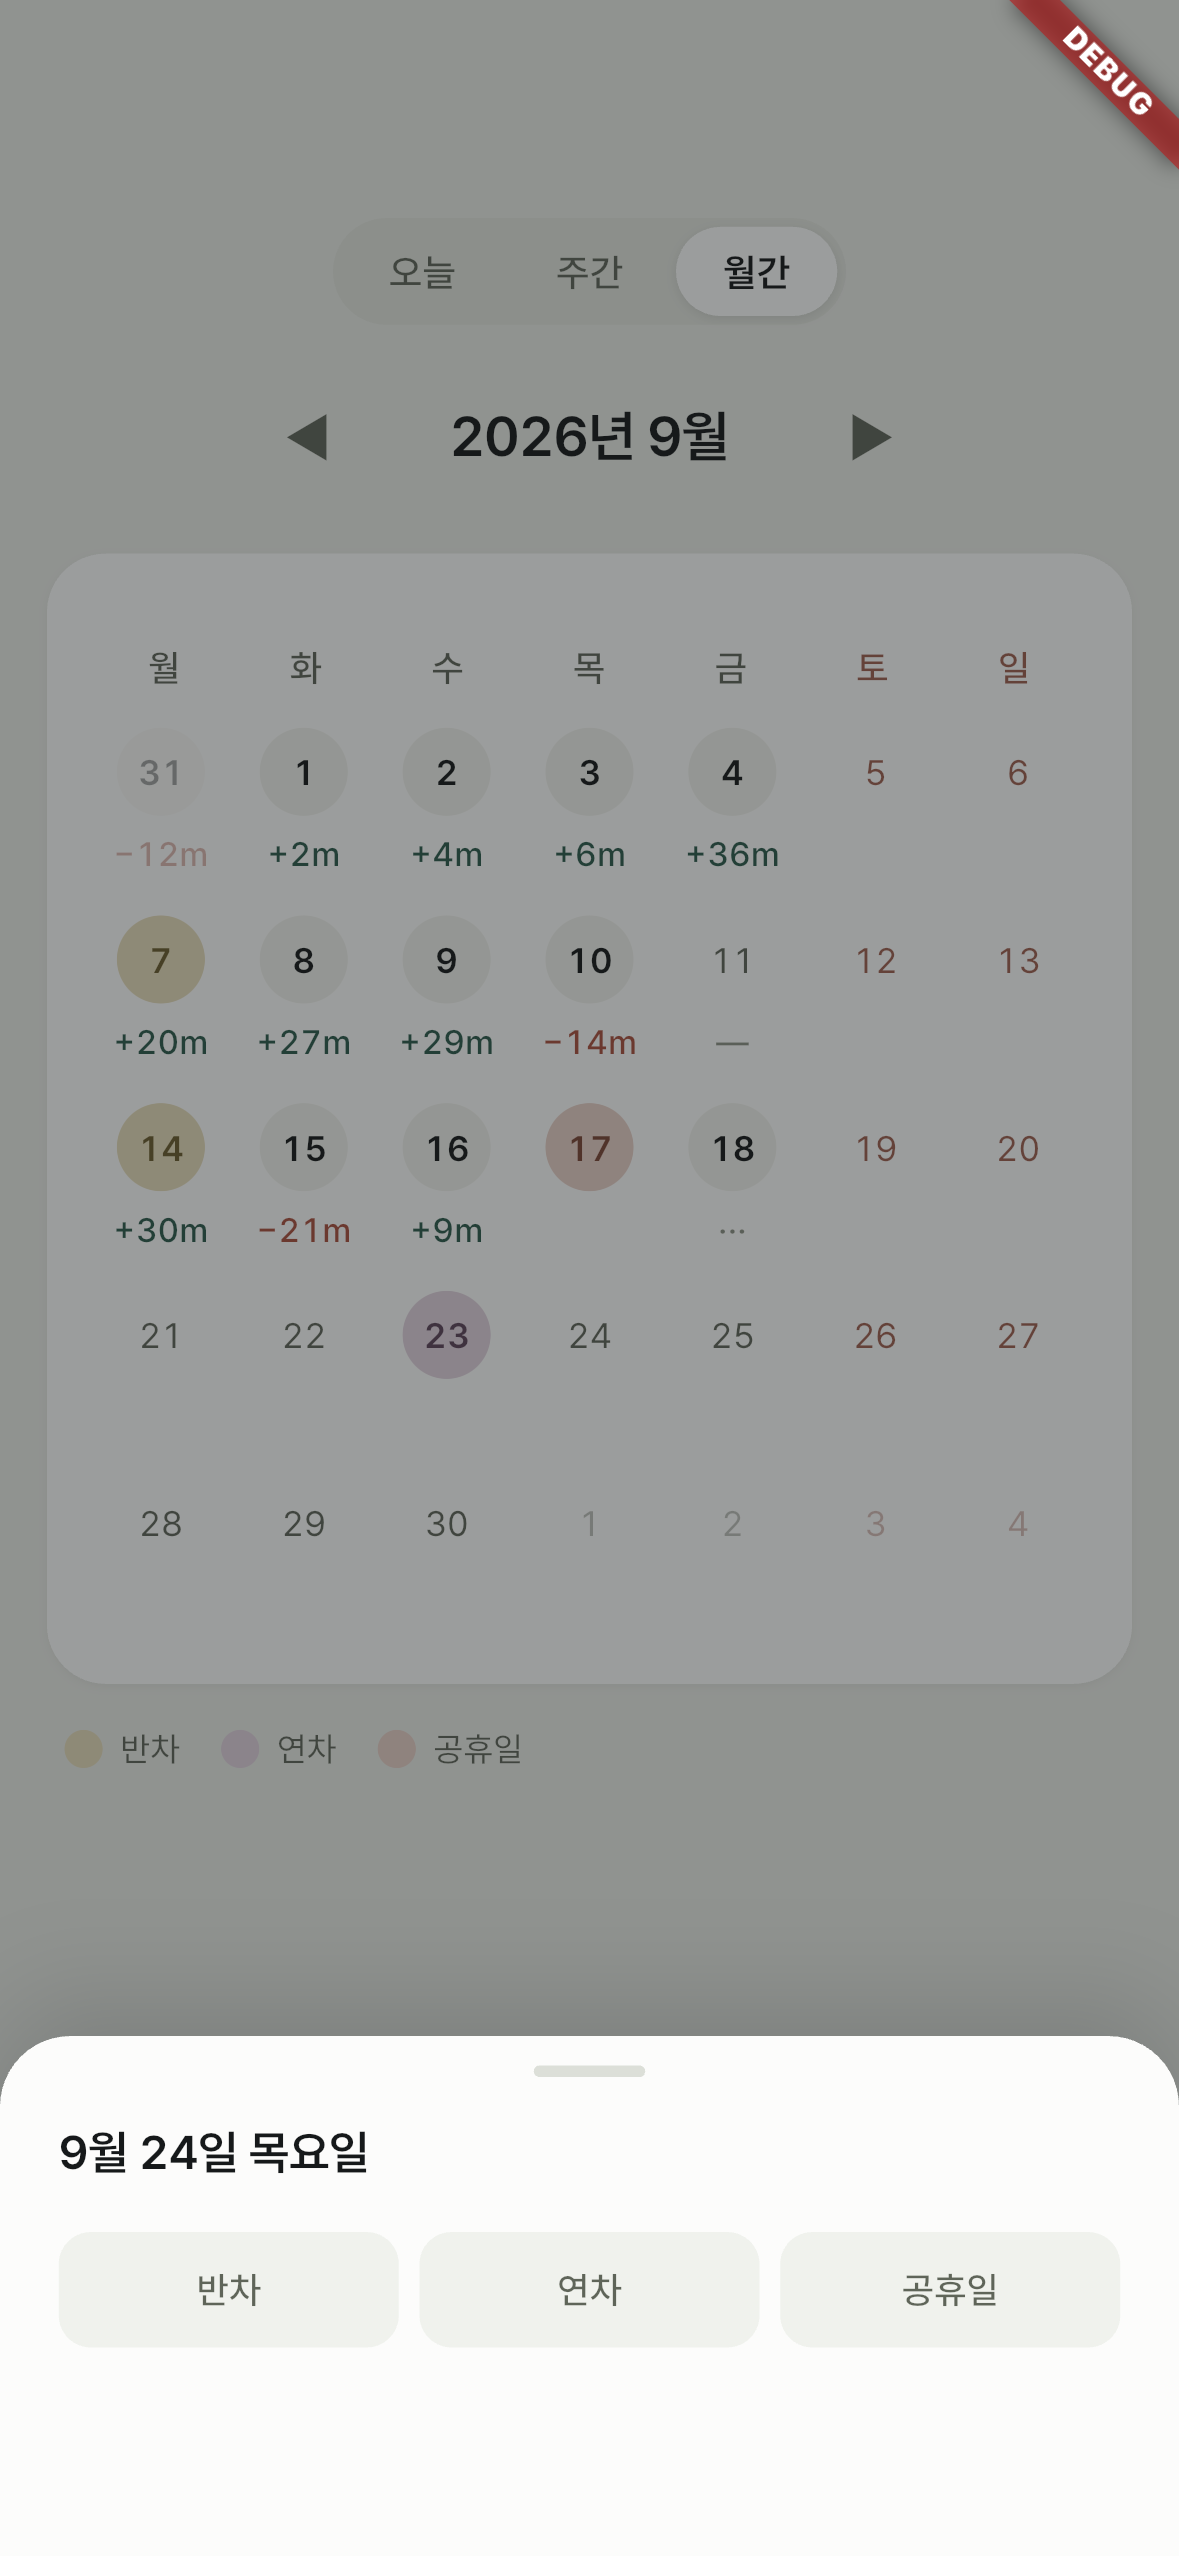
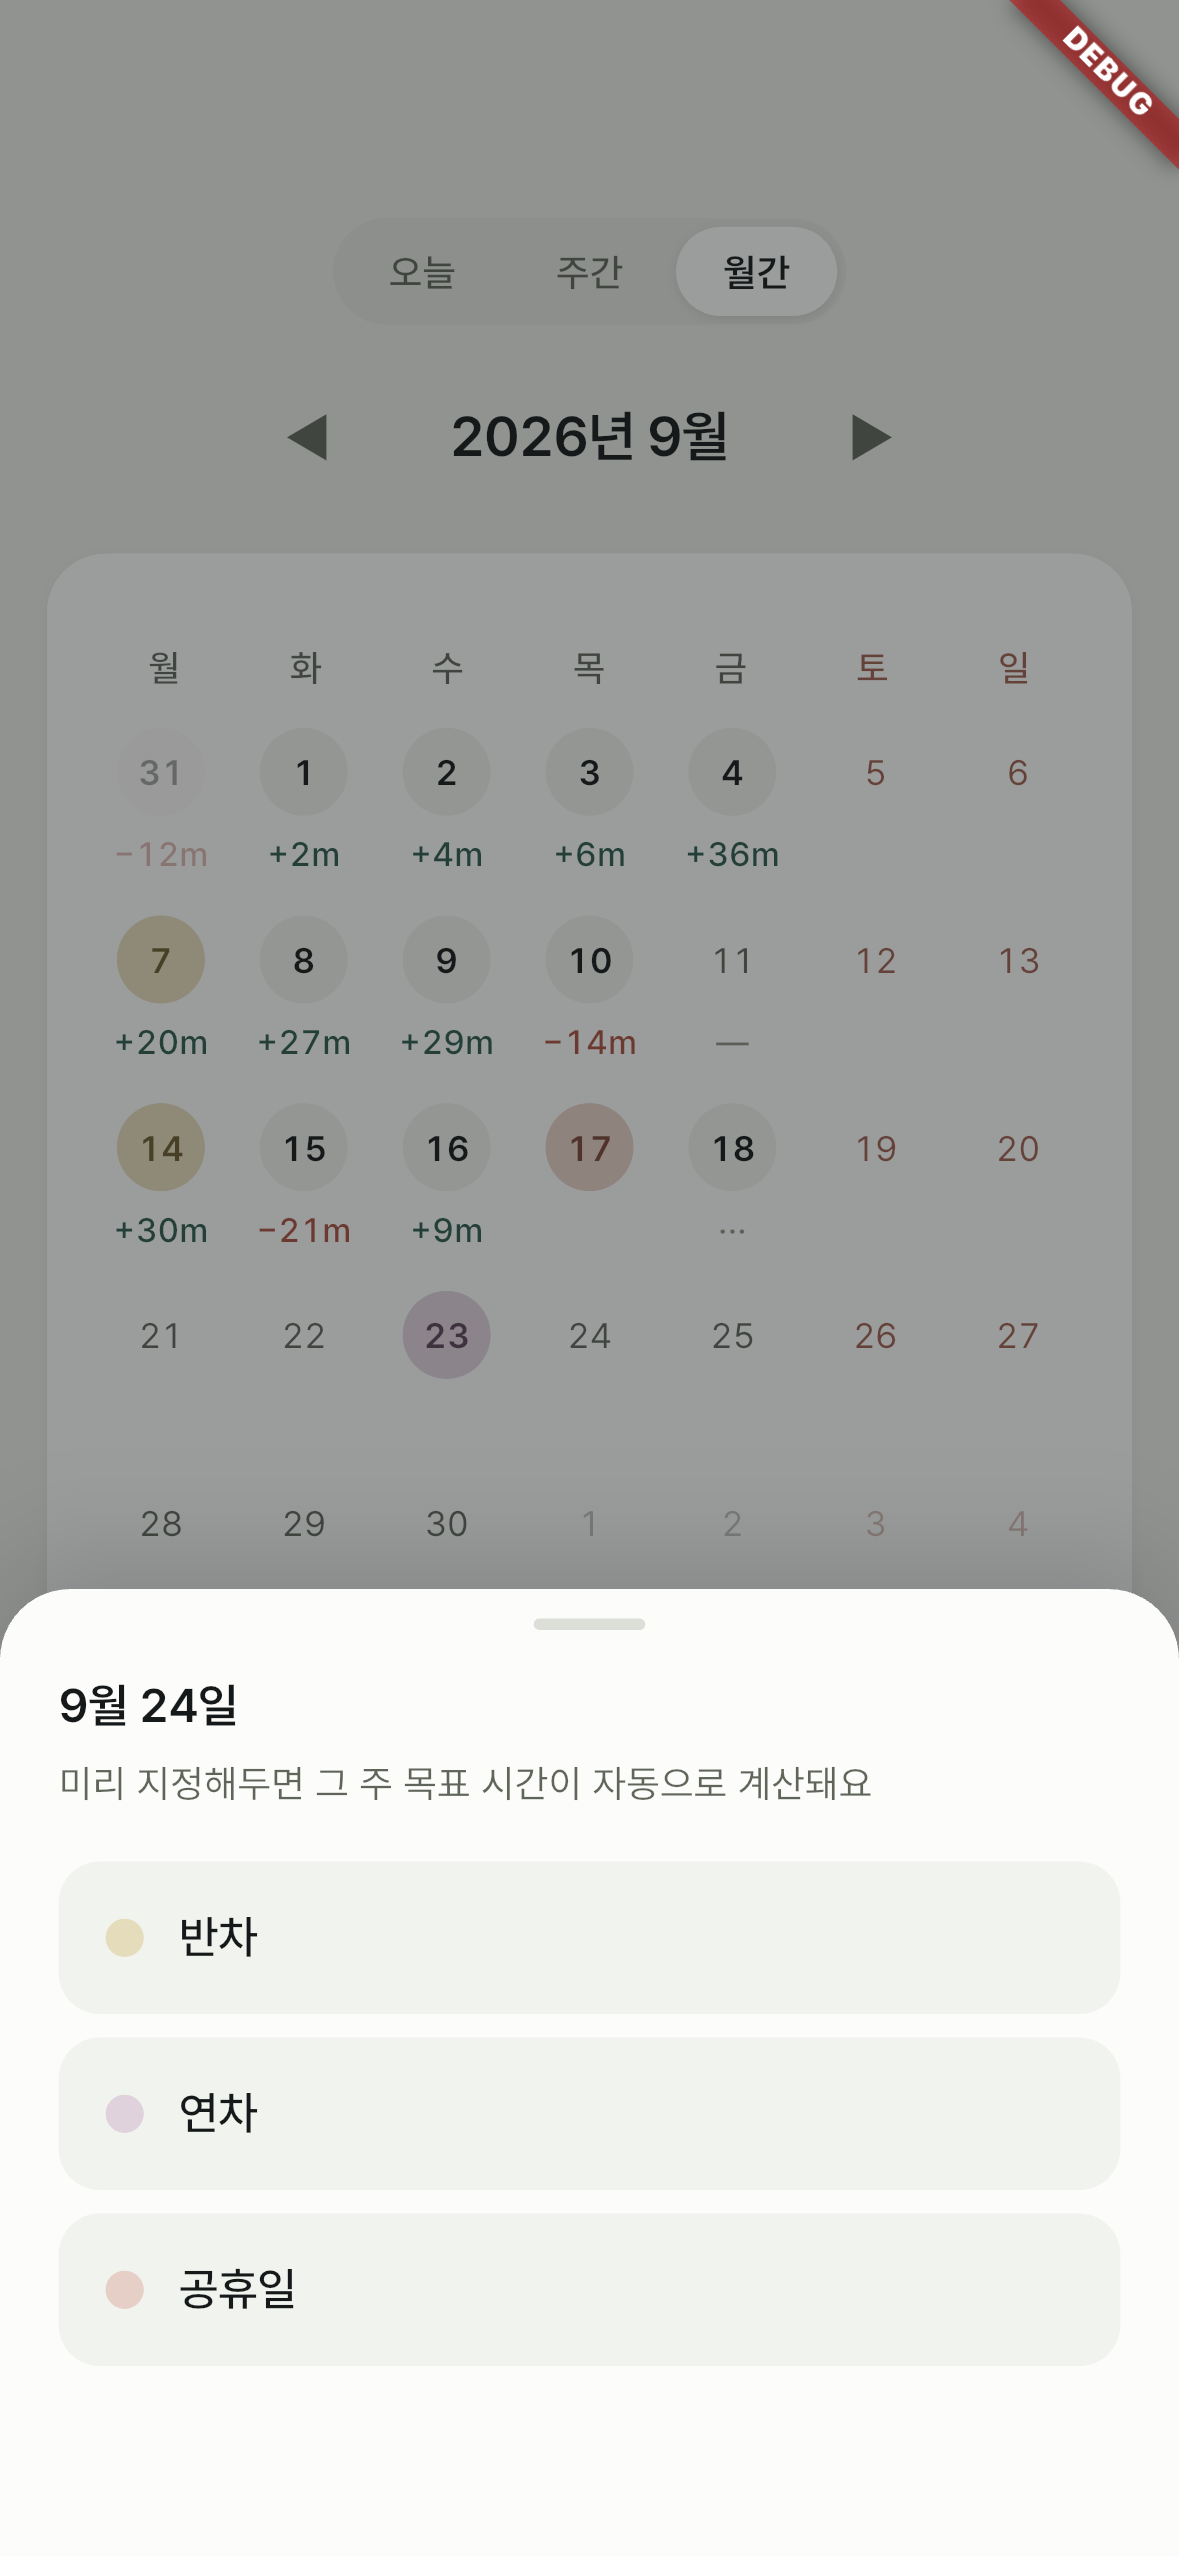
미래 날짜 시트를 유형 행 목록으로: 안내 한 줄 + 색 점·라벨·체크 행 3개
제목은 "9월 24일"만. 선택 행은 연한 초록 배경에 브랜드색 라벨·체크, 미선택은 카드 안쪽 색.
탭 즉시 저장·닫힘은 그대로. 과거 날짜의 칩은 유지.

Changed region(s): [[0.0, 0.6182, 1.0, 0.9272]]

diff --git a/lib/presentation/record_edit/widgets/type_rows.dart b/lib/presentation/record_edit/widgets/type_rows.dart
@@ -1,0 +1,81 @@
+import 'package:flutter/material.dart';
+
+import '../../../domain/model/work_type.dart';
+import '../../../ui/app_colors.dart';
+import '../../../ui/app_sizes.dart';
+import '../../../ui/app_text_styles.dart';
+import '../record_edit_texts.dart';
+
+/// 미래 날짜 시트의 유형 목록 — 색 점 · 라벨 · 체크가 있는 전체 너비 행 3개. 상호배타, 같은 행 재탭이면 null.
+class TypeRows extends StatelessWidget {
+  const TypeRows({super.key, required this.selected, required this.onChanged});
+
+  final WorkType selected;
+  final ValueChanged<WorkType?> onChanged;
+
+  static const _types = [WorkType.halfDay, WorkType.dayOff, WorkType.holiday];
+
+  @override
+  Widget build(BuildContext context) {
+    return Column(
+      children: [
+        for (var i = 0; i < _types.length; i++) ...[
+          if (i > 0) SizedBox(height: AppSizes.typeRowGap),
+          _Row(
+            type: _types[i],
+            selected: selected == _types[i],
+            onTap: () => onChanged(selected == _types[i] ? null : _types[i]),
+          ),
+        ],
+      ],
+    );
+  }
+}
+
+class _Row extends StatelessWidget {
+  const _Row({required this.type, required this.selected, required this.onTap});
+
+  final WorkType type;
+  final bool selected;
+  final VoidCallback onTap;
+
+  @override
+  Widget build(BuildContext context) {
+    return GestureDetector(
+      behavior: HitTestBehavior.opaque,
+      onTap: onTap,
+      child: AnimatedContainer(
+        duration: AppDurations.checkbox,
+        height: AppSizes.typeRow,
+        padding: AppSizes.typeRowPadding,
+        decoration: BoxDecoration(
+          color: selected ? AppColors.typeRowSelected : AppColors.cardInner,
+          borderRadius: BorderRadius.circular(AppSizes.typeRowRadius),
+        ),
+        child: Row(
+          children: [
+            Container(
+              width: AppSizes.typeRowDot,
+              height: AppSizes.typeRowDot,
+              decoration: BoxDecoration(color: AppColors.typeColors(type).$1, shape: BoxShape.circle),
+            ),
+            SizedBox(width: AppSizes.typeRowDotGap),
+            Expanded(
+              child: AnimatedDefaultTextStyle(
+                duration: AppDurations.checkbox,
+                style: AppTextStyles.typeRowLabel(selected: selected),
+                child: Text(RecordEditTexts.chipLabel(type)),
+              ),
+            ),
+            // 자리를 유지한 채 켜고 끈다 — 라벨이 움직이지 않도록.
+            AnimatedOpacity(
+              duration: AppDurations.checkbox,
+              opacity: selected ? 1 : 0,
+              child: Icon(Icons.check_rounded, size: AppSizes.typeRowCheck, color: AppColors.brand),
+            ),
+          ],
+        ),
+      ),
+    );
+  }
+}

diff --git a/test/presentation/record_edit_sheet_test.dart b/test/presentation/record_edit_sheet_test.dart
@@ -10,6 +10,7 @@ import 'package:soi_duty/data/database/app_database.dart';
 import 'package:soi_duty/domain/model/work_type.dart';
 import 'package:soi_duty/presentation/record_edit/record_edit_sheet.dart';
 import 'package:soi_duty/presentation/record_edit/widgets/time_wheel.dart';
+import 'package:soi_duty/presentation/record_edit/widgets/type_rows.dart';
 import 'package:soi_duty/ui/app_theme.dart';
 
 import '../helpers/fonts.dart';
@@ -123,10 +124,31 @@ void main() {
     await unmount(tester);
   });
 
-  testWidgets('미래 날짜는 시각 행이 없다', (tester) async {
+  testWidgets('미래 날짜는 시각 행 없이 유형 행 3개, 탭하면 바로 저장·닫힘, 다시 열면 체크', (tester) async {
     await pumpSheet(tester, d(23));
+    expect(find.text('9월 23일'), findsOneWidget);
+    expect(find.text('미리 지정해두면 그 주 목표 시간이 자동으로 계산돼요'), findsOneWidget);
     expect(find.text('출근'), findsNothing);
-    expect(find.text('연차'), findsOneWidget);
+    expect(find.text('저장'), findsNothing);
+    expect(find.byType(TypeRows), findsOneWidget);
+    double checkOpacity(String label) => tester
+        .widget<AnimatedOpacity>(find.descendant(
+          of: find.ancestor(of: find.text(label), matching: find.byType(GestureDetector)).first,
+          matching: find.byType(AnimatedOpacity),
+        ))
+        .opacity;
+    expect(checkOpacity('연차'), 0);
+
+    await tester.tap(find.text('연차'));
+    await tester.pumpAndSettle();
+    expect(find.byType(RecordEditSheet), findsNothing);
+    expect((await db.select(db.workRecords).get()).single.type, WorkType.dayOff);
+
+    await tester.tap(find.text('open'));
+    await tester.pumpAndSettle();
+    expect(checkOpacity('연차'), 1);
+    expect(checkOpacity('반차'), 0);
+    expect(find.text('이 날 기록 지우기'), findsOneWidget);
     await unmount(tester);
   });
 

diff --git a/lib/presentation/record_edit/record_edit_sheet.dart b/lib/presentation/record_edit/record_edit_sheet.dart
@@ -17,6 +17,7 @@ import 'widgets/calc_rows.dart';
 import 'widgets/time_row.dart';
 import 'widgets/time_wheel.dart';
 import 'widgets/type_chips.dart';
+import 'widgets/type_rows.dart';
 
 /// 네 진입점(오늘 시간 수정 · 누락 리스트 · 주간 행 · 월간 셀)이 공유하는 시트.
 Future<void> showRecordEditSheet(BuildContext context, DateTime date) {
@@ -167,7 +168,13 @@ class _RecordEditSheetState extends ConsumerState<RecordEditSheet> {
                   ),
                 ),
               ),
-            if (draft.showsTypeChips)
+            // 미래 날짜는 유형만 고르는 자리 — 안내 한 줄 + 전체 너비 행. 과거는 시각 행 위의 칩.
+            if (draft.isFuture && draft.showsTypeChips) ...[
+              SizedBox(height: AppSizes.sheetSubtitleTop),
+              _inset(Text(RecordEditTexts.futureNote, style: AppTextStyles.sheetSubtitle)),
+              SizedBox(height: AppSizes.typeRowsTop),
+              _inset(TypeRows(selected: draft.type, onChanged: (t) => _onTypeChanged(draft, t))),
+            ] else if (draft.showsTypeChips)
               _inset(
                 Padding(
                   padding: AppSizes.chipsMargin,

diff --git a/lib/presentation/record_edit/record_edit_texts.dart b/lib/presentation/record_edit/record_edit_texts.dart
@@ -17,6 +17,7 @@ class CalcLine {
 /// 시간 수정 시트의 모든 문구.
 abstract final class RecordEditTexts {
   static const weekendNote = '주말 근무는 주 40시간에 포함되지 않아요';
+  static const futureNote = '미리 지정해두면 그 주 목표 시간이 자동으로 계산돼요';
   static const clockIn = '출근';
   static const clockOut = '퇴근';
   static const clockInTitle = '출근 시각';
@@ -34,7 +35,8 @@ abstract final class RecordEditTexts {
   static const pm = '오후';
   static const dash = '—';
 
-  static String title(RecordDraft d) => formatDateTitle(d.date);
+  /// 미래는 "9월 17일", 나머지는 "9월 17일 목요일".
+  static String title(RecordDraft d) => d.isFuture ? formatMonthDay(d.date) : formatDateTitle(d.date);
 
   static String chipLabel(WorkType t) => switch (t) {
         WorkType.halfDay => '반차',

diff --git a/lib/ui/app_sizes.dart b/lib/ui/app_sizes.dart
@@ -134,6 +134,17 @@ abstract final class AppSizes {
   static EdgeInsets get sheetNoteMargin => EdgeInsets.fromLTRB(0, 12.w, 0, 4.w);
   static double get sheetNoteRadius => 11.w;
   static EdgeInsets get chipsMargin => EdgeInsets.fromLTRB(0, 14.w, 0, 4.w);
+
+  // 미래 날짜 시트 — 유형 행 목록
+  static double get sheetSubtitleTop => 6.w;
+  static double get typeRowsTop => 18.w;
+  static double get typeRow => 52.w;
+  static double get typeRowRadius => 14.w;
+  static EdgeInsets get typeRowPadding => EdgeInsets.symmetric(horizontal: 16.w);
+  static double get typeRowGap => 8.w;
+  static double get typeRowDot => 13.w;
+  static double get typeRowDotGap => 12.w;
+  static double get typeRowCheck => 18.w;
   static double get chipGap => 7.w;
   static EdgeInsets get chipPadding => EdgeInsets.symmetric(vertical: 11.w);
   static double get chipRadius => 11.w;

diff --git a/lib/ui/app_text_styles.dart b/lib/ui/app_text_styles.dart
@@ -91,6 +91,9 @@ abstract final class AppTextStyles {
   // 시간 수정 시트
   static TextStyle get sheetTitle => _style(16, FontWeight.w600, letterSpacingEm: -0.01);
   static TextStyle get sheetNote => _style(12.5, FontWeight.w400, height: 1.5, color: AppColors.subtle);
+  static TextStyle get sheetSubtitle => _style(13, FontWeight.w400, color: AppColors.subtle);
+  static TextStyle typeRowLabel({required bool selected}) =>
+      _style(15.5, selected ? FontWeight.w600 : FontWeight.w500, color: selected ? AppColors.brand : AppColors.ink);
   static TextStyle chip({required bool selected, required Color selectedColor}) =>
       _style(12.5, selected ? FontWeight.w600 : FontWeight.w500, color: selected ? selectedColor : AppColors.subtle);
   static TextStyle get timeLabel => _style(13, FontWeight.w400, color: AppColors.subtle);

diff --git a/lib/ui/app_colors.dart b/lib/ui/app_colors.dart
@@ -36,6 +36,7 @@ abstract final class AppColors {
   static const weekendNone = Color(0xFFC9CDC4);
   static const todayRow = Color(0xFFF3F5F1);
   static const chipNeutral = Color(0xFFF0F2ED);
+  static const typeRowSelected = Color(0xFFEDF2EF); // 미래 날짜 시트의 선택된 유형 행
   static const wheelUnselected = Color(0xFF9DA296);
 
   // 월간 캘린더 — 숫자 뒤 원. 유형이 있으면 typeColors, 없으면 아래.

diff --git a/lib/core/presentation/format/date_format.dart b/lib/core/presentation/format/date_format.dart
@@ -5,6 +5,9 @@ String _weekday(DateTime d) => _weekdayShort[d.weekday - DateTime.monday];
 /// "9월 11일 금요일"
 String formatDateTitle(DateTime d) => '${d.month}월 ${d.day}일 ${_weekday(d)}요일';
 
+/// "9월 17일"
+String formatMonthDay(DateTime d) => '${d.month}월 ${d.day}일';
+
 /// "9월 4일 금"
 String formatDateShort(DateTime d) => '${d.month}월 ${d.day}일 ${_weekday(d)}';
 
